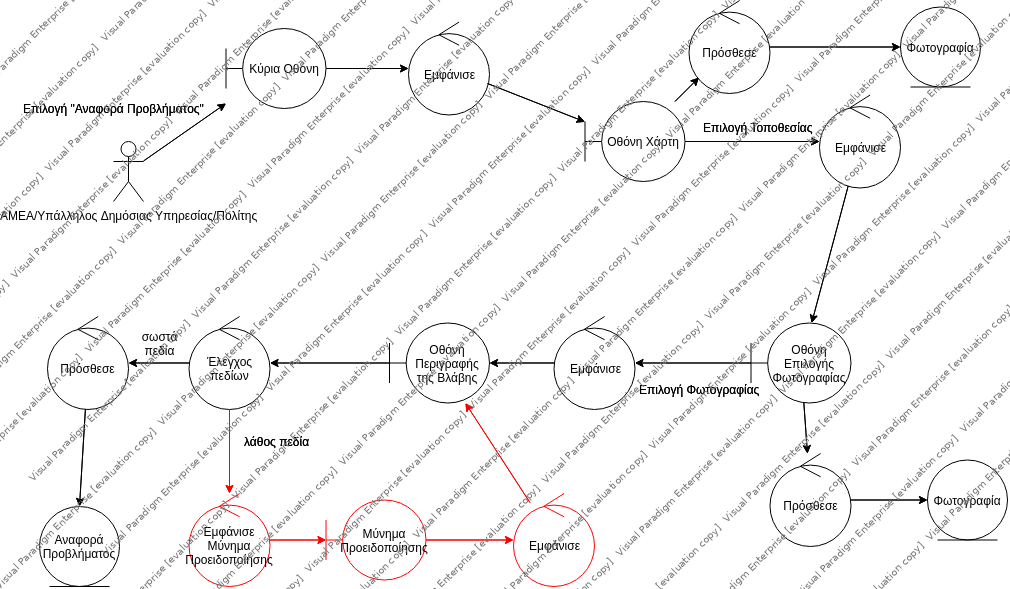
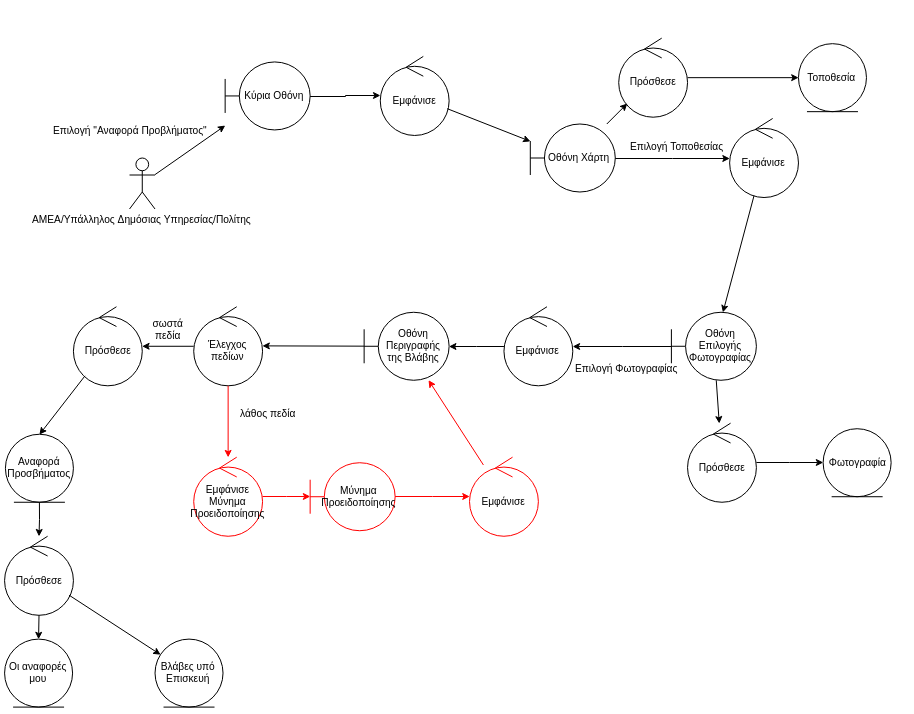
Update Robustness-Diagram and Use-cases for use cases 1,2

diff --git a/Use-cases.md b/Use-cases.md
@@ -53,7 +53,8 @@ Markdown, VSCode, GanttProject, Pandoc, Lightshot, [Table generator](https://www
 5. Ο χρήστης επιλέγει τη φωτογραφία.
 6. Το σύστημα εμφανίζει την οθόνη για την περιγραφή της βλάβης.
 7. Ο χρήστης εισάγει τη περιγραφή και επιλέγει "Υποβολή Βλάβης".
-8. Το σύστημα ενημερώνει την αναφορά και επιστρέφει στην αρχική οθόνη.
+8. Το σύστημα \textcolor{blue}{δημιουργεί} την αναφορά, \textcolor{blue}{την βάζει στις "Βλάβες υπό Επισκευή" 
+και στο ιστορικό αναφορών του χρήστη} και επιστρέφει στην αρχική οθόνη.
 
 ### Εναλλακτική Ροή 1
 7.1. Ο χρήστης δεν έχει εισάγει περιγραφή.  
